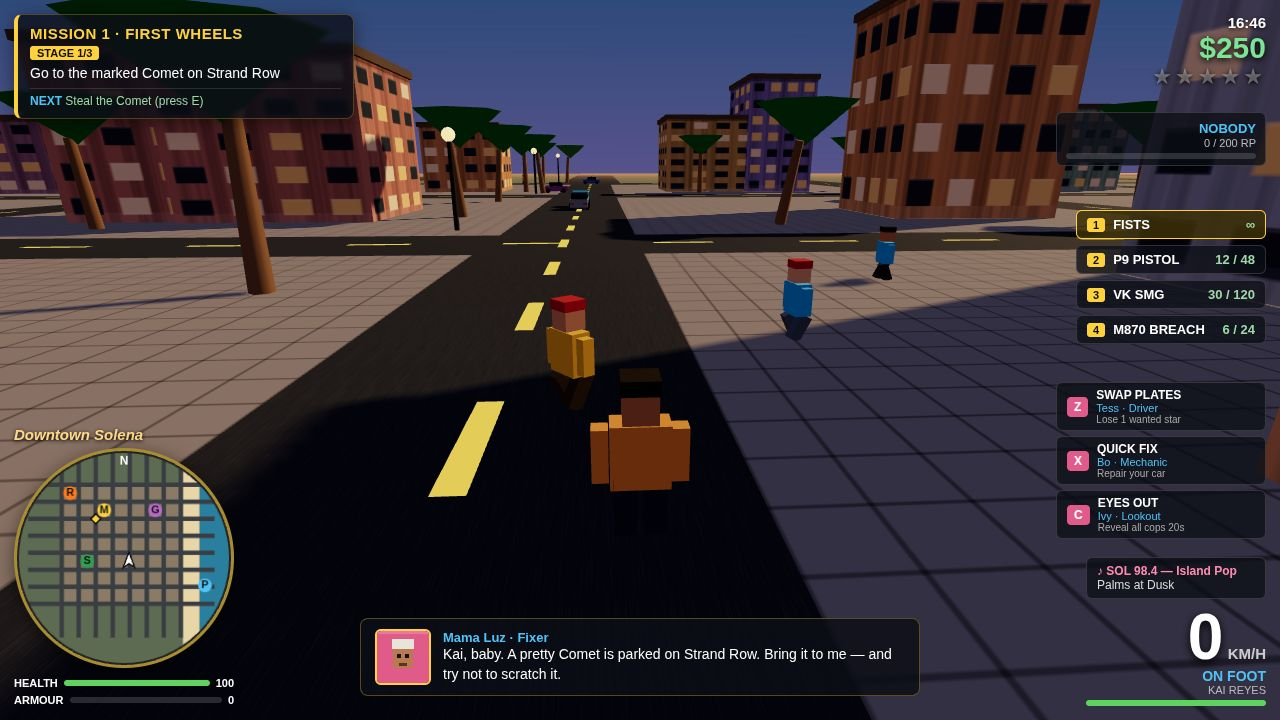
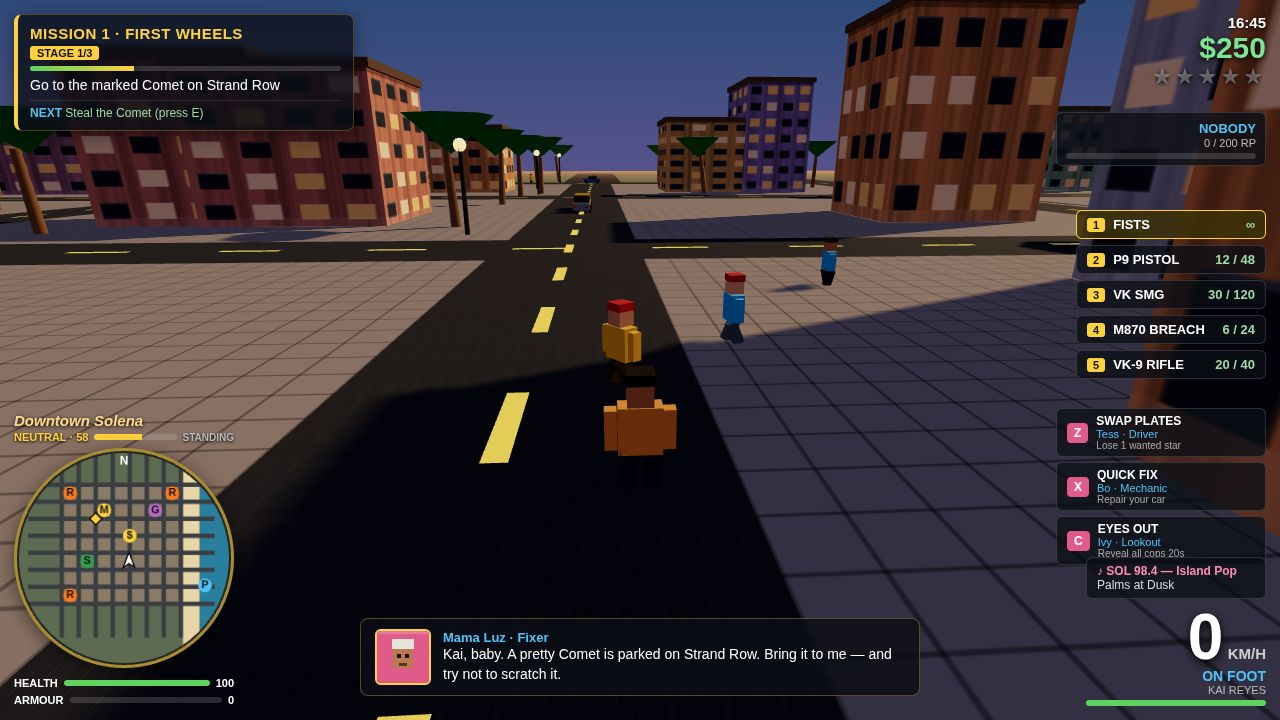
Round-2 screenshots (5-star chase cover, bank shootout, foot, title) + shot staging polish

diff --git a/game/src/shots.js b/game/src/shots.js
@@ -28,10 +28,12 @@ export function stageShot(G, shot) {
     G.missions.startMission(0);
     G.hud.showDialogue('LUZ', 'Kai, baby. A pretty Comet is parked on Strand Row. Bring it to me — and try not to scratch it.', 30);
     G.camRig.yaw = Math.PI * 0.98; G.camRig.pitch = 0.34;
-    // a few pedestrians right around the player + traffic up the street
-    for (const [x, z] of [[24, 52], [36, 68], [20, 72], [40, 50], [30, 80]]) G.peds.spawn(x, z);
-    const t1 = G.vehicles.spawn('sedan', 31, 20, Math.PI, { traffic: true }); t1.speed = 10;
-    const t2 = G.vehicles.spawn('taxi', 31, -45, 0, { traffic: true }); t2.speed = 10;
+    G.camRig.distLock = 11; // pull back so more street + traffic is in frame
+    // pedestrians around the player + a couple further up the street
+    for (const [x, z] of [[24, 52], [36, 68], [20, 72], [40, 50], [30, 80], [26, 30], [36, 18]]) G.peds.spawn(x, z);
+    // traffic in the visible corridor ahead (north of the player)
+    const t1 = G.vehicles.spawn('sedan', 31, 15, Math.PI, { traffic: true }); t1.speed = 10;
+    const t2 = G.vehicles.spawn('taxi', 31, -30, 0, { traffic: true }); t2.speed = 10;
     const t3 = G.vehicles.spawn('suv', 31, 130, Math.PI, { traffic: true }); t3.speed = 9;
   }
 
@@ -51,6 +53,7 @@ export function stageShot(G, shot) {
     G.player.money = 86450;
     G.player.respect = 2310;
     G.respect.standing['Downtown Solena'] = 72;
+    G.respect.standing['Palm Heights'] = 72; // the chase runs north into Palm Heights
     G.missions.done = 5;
     G.missions.startMission(5);
     // wanted 5 (mission sets 4, add one more): SWAT van + CONDOR-1 join
